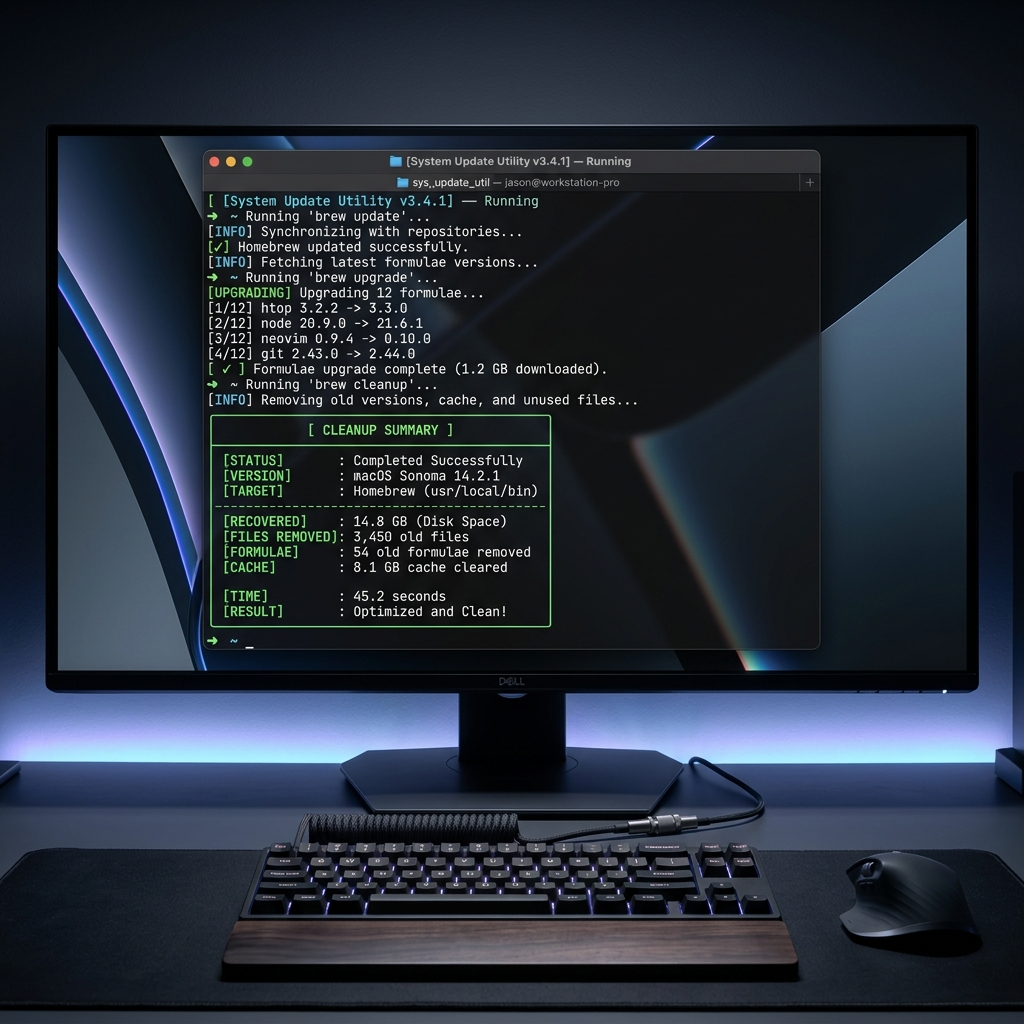
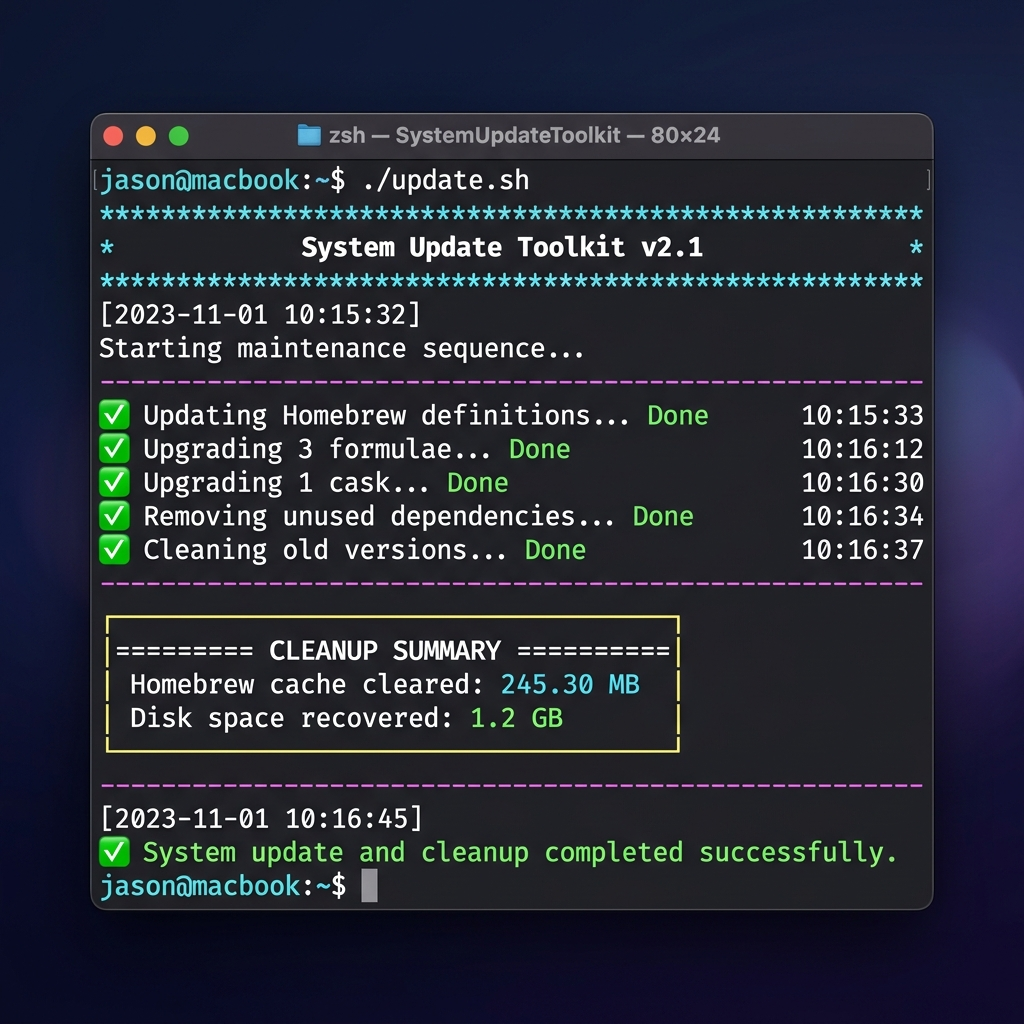
docs: add terminal preview, one-liner install, star CTA & keywords

diff --git a/README.md b/README.md
@@ -1,4 +1,4 @@
-# 🚀 System Update Utility — Cross-Platform Maintenance Suite
+# 🚀 System Update Toolkit — Cross-Platform System Maintenance & Cleanup Automation
 
 <div align="center">
 
@@ -9,11 +9,15 @@
 [![GitHub last commit](https://img.shields.io/github/last-commit/nilesh-gore/system-update-toolkit)](https://github.com/nilesh-gore/system-update-toolkit/commits/main)
 [![GitHub stars](https://img.shields.io/github/stars/nilesh-gore/system-update-toolkit?style=social)](https://github.com/nilesh-gore/system-update-toolkit/stargazers)
 [![GitHub forks](https://img.shields.io/github/forks/nilesh-gore/system-update-toolkit?style=social)](https://github.com/nilesh-gore/system-update-toolkit/network/members)
+[![GitHub repo size](https://img.shields.io/github/repo-size/nilesh-gore/system-update-toolkit)](https://github.com/nilesh-gore/system-update-toolkit)
+[![PRs Welcome](https://img.shields.io/badge/PRs-welcome-brightgreen.svg)](https://github.com/nilesh-gore/system-update-toolkit/pulls)
 
 **The ultimate open-source system maintenance toolkit.**
 Automate OS updates, purge caches, recover disk space, and keep your dev environment pristine — all from a single terminal command.
 
-<img src="assets/terminal_preview.png" alt="System Update Utility Terminal Preview" width="700">
+> *One script. All platforms. Gigabytes recovered.* 💾
+
+<img src="assets/terminal_preview.png" alt="System Update Toolkit - Automated system updates, cache cleanup, and disk space recovery for Linux macOS Windows ChromeOS" width="700">
 
 *Premium color-coded terminal output with interactive cleanup summary*
 
@@ -121,6 +125,11 @@ Whether you're a developer maintaining multiple machines, a sysadmin managing se
 ---
 
 ## 🚀 Quick Start
+
+### ⚡ One-Liner (macOS)
+```bash
+git clone https://github.com/nilesh-gore/system-update-toolkit.git && cd system-update-toolkit && chmod +x brew_update_util.sh && ./brew_update_util.sh
+```
 
 ### Step 1: Clone the Repository
 ```bash
@@ -454,7 +463,10 @@ Contributions are what make the open-source community such an amazing place to l
 
 ## ⭐ Star History
 
-If this project helped you, please consider giving it a ⭐ — it helps others discover it!
+If this project saved you time or disk space, **please give it a ⭐!**
+It costs nothing but helps others discover this toolkit. Every star counts! 🙏
+
+[![Star this repo](https://img.shields.io/github/stars/nilesh-gore/system-update-toolkit?style=for-the-badge&logo=github&label=Star%20This%20Repo&color=gold)](https://github.com/nilesh-gore/system-update-toolkit)
 
 ---
 
@@ -464,12 +476,20 @@ Distributed under the **MIT License**. See [`LICENSE`](LICENSE) for more informa
 
 ---
 
+## 🔍 Keywords
+
+`system-update` `system-maintenance` `cleanup-script` `disk-cleanup` `cache-cleaner` `homebrew-update` `apt-update` `winget-update` `shell-script` `powershell-script` `linux-maintenance` `macos-maintenance` `windows-maintenance` `chromeos` `devops-tools` `automation` `sysadmin` `terminal-utility` `package-manager` `disk-space-recovery`
+
+---
+
 <div align="center">
 
 **Made with ❤️ by [Nilesh Gore](https://github.com/nilesh-gore)**
 
 *Keep your systems clean. Keep your terminal beautiful.*
 
-[⬆ Back to Top](#-system-update-utility--cross-platform-maintenance-suite)
+⭐ **Found this useful? Star the repo and share it!** ⭐
+
+[⬆ Back to Top](#-system-update-toolkit--cross-platform-system-maintenance--cleanup-automation)
 
 </div>